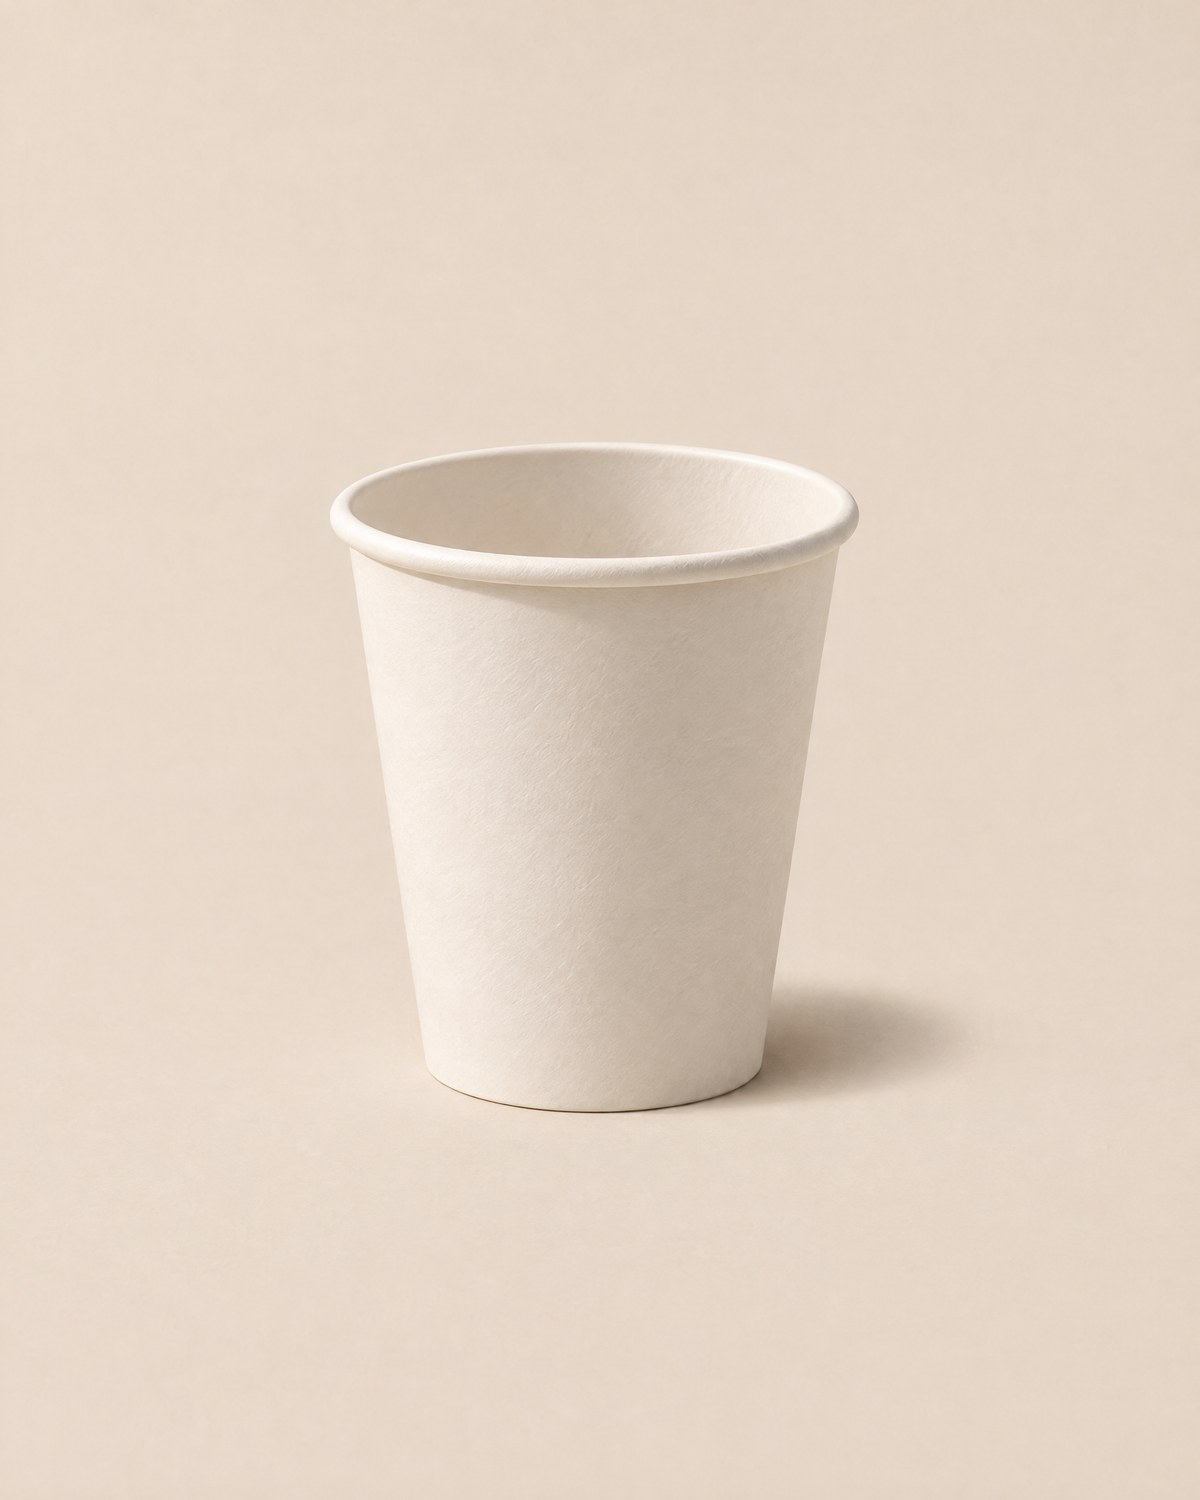
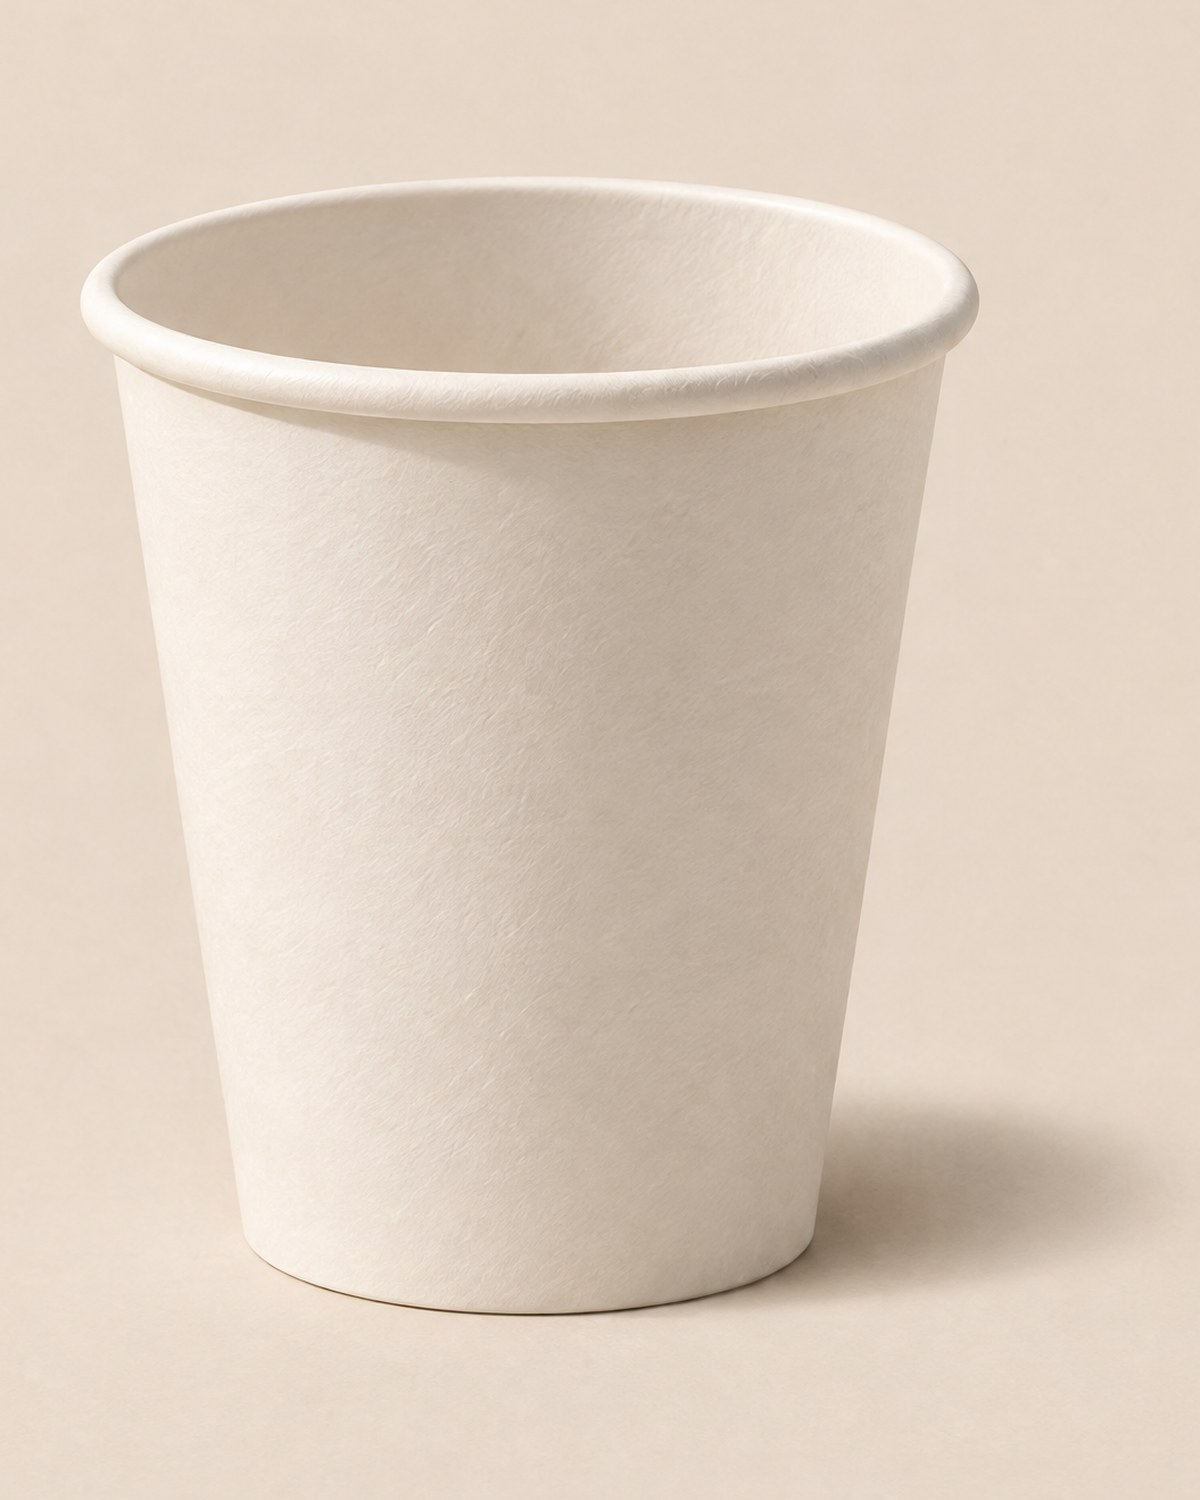
Brand card: tight edge-to-edge product crops, versioned photo URLs (ASSET_VERSION + images.localPatterns)

Changed region(s): [[0.0617, 0.092, 0.9558, 0.8893], [0.185, 0.7667, 0.2775, 0.8587]]

diff --git a/src/app/page.tsx b/src/app/page.tsx
@@ -12,6 +12,7 @@ import { HoverSwap } from "@/components/HoverSwap";
 import { BreakdownScrubber } from "@/components/BreakdownScrubber";
 import { CountUp } from "@/components/CountUp";
 import { SectionRail } from "@/components/SectionRail";
+import { v } from "@/lib/asset-version";
 
 export const metadata = pageMeta({
   title: `${site.name} · Home-compostable coffee cups and lids`,
@@ -73,10 +74,10 @@ export default async function HomePage() {
   ];
 
   const stages = [
-    { label: "served.", text: "A paper cup with a PHA lining. Holds a hot coffee like any other.", src: "/breakdown/1.jpg", alt: "A new paper cup standing on compost" },
-    { label: "torn and buried.", text: "Into the pile with the grounds and the food scraps. Smaller pieces go faster.", src: "/breakdown/2.jpg", alt: "The cup slumped and stained in the pile" },
-    { label: "softening.", text: "Moisture, warmth and the same microbes that made the lining take it apart.", src: "/breakdown/3.jpg", alt: "The cup collapsed to its marked base" },
-    { label: "gone.", text: "Nothing left to pick out. No film, no flakes, no microplastics.", src: "/breakdown/4.jpg", alt: "Dark compost where the cup was" },
+    { label: "served.", text: "A paper cup with a PHA lining. Holds a hot coffee like any other.", src: v("/breakdown/1.jpg"), alt: "A new paper cup standing on compost" },
+    { label: "torn and buried.", text: "Into the pile with the grounds and the food scraps. Smaller pieces go faster.", src: v("/breakdown/2.jpg"), alt: "The cup slumped and stained in the pile" },
+    { label: "softening.", text: "Moisture, warmth and the same microbes that made the lining take it apart.", src: v("/breakdown/3.jpg"), alt: "The cup collapsed to its marked base" },
+    { label: "gone.", text: "Nothing left to pick out. No film, no flakes, no microplastics.", src: v("/breakdown/4.jpg"), alt: "Dark compost where the cup was" },
   ];
 
   const places: [string, string][] = [
@@ -119,7 +120,7 @@ export default async function HomePage() {
           </div>
         </div>
         <div className="relative mt-10 aspect-[16/9] overflow-hidden bg-card md:mt-14">
-          <Image src="/hero-bone.jpg" alt="The three cup sizes and the lid on a bone backdrop, a fourth cup on its side showing the made to disappear mark on its base" fill priority fetchPriority="high" sizes="(min-width: 1120px) 1064px, 100vw" className="object-cover" />
+          <Image src={v("/hero-bone.jpg")} alt="The three cup sizes and the lid on a bone backdrop, a fourth cup on its side showing the made to disappear mark on its base" fill priority fetchPriority="high" sizes="(min-width: 1120px) 1064px, 100vw" className="object-cover" />
         </div>
         <dl className="mt-6 grid border-y border-line text-[14px] sm:grid-cols-3">
           {[
@@ -161,7 +162,7 @@ export default async function HomePage() {
       <Section id="material" intro="Every paper cup has a lining. Ours is PHA, a material microbes make and microbes eat, so the whole cup is certified to break down in a home compost pile.">
         <div className="grid gap-10 md:grid-cols-[1.25fr_1fr] md:items-center md:gap-16">
           <div className="relative aspect-[16/10] overflow-hidden bg-card">
-            <Image src="/soil-mark.jpg" alt="A paper hot cup half-sunk in dark compost, softened and browning, the made to disappear mark still legible on its base" fill sizes="(min-width: 768px) 55vw, 100vw" className="object-cover" />
+            <Image src={v("/soil-mark.jpg")} alt="A paper hot cup half-sunk in dark compost, softened and browning, the made to disappear mark still legible on its base" fill sizes="(min-width: 768px) 55vw, 100vw" className="object-cover" />
           </div>
           <dl className="hairline border-y border-line text-[15px]">
             {[
@@ -226,7 +227,7 @@ export default async function HomePage() {
           </div>
           <figure>
             <div className="relative aspect-[4/3] overflow-hidden bg-card">
-              <Image src="/inner-harbour.jpg" alt="The founders on the Inner Harbour causeway in Victoria, asking passers-by four questions with a cooler of freezies and a hand-drawn sign" fill sizes="(min-width: 768px) 50vw, 100vw" className="object-cover" style={{ filter: "grayscale(1) contrast(1.05)" }} />
+              <Image src={v("/inner-harbour.jpg")} alt="The founders on the Inner Harbour causeway in Victoria, asking passers-by four questions with a cooler of freezies and a hand-drawn sign" fill sizes="(min-width: 768px) 50vw, 100vw" className="object-cover" style={{ filter: "grayscale(1) contrast(1.05)" }} />
             </div>
             <figcaption className="mt-3 text-[13px] text-stone">Inner Harbour, {site.city}. 167 coffee drinkers, summer 2026.</figcaption>
           </figure>

diff --git a/src/app/compost/page.tsx b/src/app/compost/page.tsx
@@ -6,6 +6,7 @@ import { PageHeader } from "@/components/PageHeader";
 import { Reveal, RevealGroup } from "@/components/Reveal";
 import { pageMeta, breadcrumbLd, faqLd, howToLd } from "@/lib/seo";
 import { JsonLd } from "@/components/JsonLd";
+import { v } from "@/lib/asset-version";
 
 export const metadata = pageMeta({
   title: "How to compost a PHA-lined paper cup at home",
@@ -40,7 +41,7 @@ export default function CompostPage() {
         <Reveal>
           <figure>
             <div className="relative aspect-[16/10] overflow-hidden bg-card">
-              <Image src="/soil-mark.jpg" alt="A paper hot cup half-sunk in dark compost, softened and browning, the made to disappear mark still legible on its base" fill priority sizes="(min-width: 768px) 45vw, 100vw" className="object-cover" />
+              <Image src={v("/soil-mark.jpg")} alt="A paper hot cup half-sunk in dark compost, softened and browning, the made to disappear mark still legible on its base" fill priority sizes="(min-width: 768px) 45vw, 100vw" className="object-cover" />
             </div>
             <figcaption className="mt-2 text-xs text-soil/60">An illustration of the breakdown, not a timed photograph. How long it takes depends on the pile.</figcaption>
           </figure>

diff --git a/src/app/certifications/page.tsx b/src/app/certifications/page.tsx
@@ -6,6 +6,7 @@ import { Reveal } from "@/components/Reveal";
 import Image from "next/image";
 import { pageMeta, breadcrumbLd, faqLd } from "@/lib/seo";
 import { JsonLd } from "@/components/JsonLd";
+import { v } from "@/lib/asset-version";
 
 export const metadata = pageMeta({
   title: "Certifications · TÜV Austria home-compostable",
@@ -98,7 +99,7 @@ export default async function CertificationsPage() {
       <div className="mt-10 grid gap-8 md:grid-cols-[1fr_minmax(0,1.2fr)] md:items-start">
       <Reveal>
         <div className="relative aspect-[16/10] overflow-hidden bg-card">
-          <Image src="/soil-mark.jpg" alt="A paper hot cup half-sunk in dark compost, softened and browning, the made to disappear mark still legible on its base" fill sizes="(min-width: 768px) 40vw, 100vw" className="object-cover object-right" />
+          <Image src={v("/soil-mark.jpg")} alt="A paper hot cup half-sunk in dark compost, softened and browning, the made to disappear mark still legible on its base" fill sizes="(min-width: 768px) 40vw, 100vw" className="object-cover object-right" />
         </div>
       </Reveal>
       <Reveal as="section" className="max-w-2xl space-y-3 rounded-[20px] bg-cream p-6 text-sm text-soil/80">

diff --git a/src/app/whats-in-your-cup/page.tsx b/src/app/whats-in-your-cup/page.tsx
@@ -5,6 +5,7 @@ import { PageHeader } from "@/components/PageHeader";
 import { Reveal, RevealGroup } from "@/components/Reveal";
 import { pageMeta, breadcrumbLd, faqLd } from "@/lib/seo";
 import { JsonLd } from "@/components/JsonLd";
+import { v } from "@/lib/asset-version";
 
 export const metadata = pageMeta({
   title: "What's in your cup · paper outside, PHA inside",
@@ -37,7 +38,7 @@ export default function WhatsInYourCupPage() {
       <div className="mx-auto mt-12 grid max-w-6xl gap-10 md:grid-cols-[1fr_1.1fr] md:items-start md:gap-14">
         <Reveal>
           <div className="relative aspect-[4/5] overflow-hidden bg-card">
-            <Image src="/products/MTD-CUP-16H-front.jpg" alt="A 16 oz paper hot cup, one on its side showing the mark on its base" fill priority sizes="(min-width: 768px) 45vw, 100vw" className="object-cover" />
+            <Image src={v("/products/MTD-CUP-16H-front.jpg")} alt="A 16 oz paper hot cup, one on its side showing the mark on its base" fill priority sizes="(min-width: 768px) 45vw, 100vw" className="object-cover" />
           </div>
         </Reveal>
         <div className="space-y-10 text-[16px] leading-7 text-soil/85">

diff --git a/src/app/custom-printing/page.tsx b/src/app/custom-printing/page.tsx
@@ -7,6 +7,7 @@ import { PageHeader } from "@/components/PageHeader";
 import { QuoteForm } from "@/components/QuoteForm";
 import { Reveal, RevealGroup } from "@/components/Reveal";
 import { pageMeta } from "@/lib/seo";
+import { v } from "@/lib/asset-version";
 
 export const metadata = pageMeta({
   title: "Custom printed compostable cups · your logo, from 100 cases",
@@ -28,7 +29,7 @@ export default async function CustomPrintingPage() {
       <div className="mt-10 grid gap-8 md:grid-cols-[1.1fr_1fr] md:items-center md:gap-12">
         <Reveal>
           <div className="relative aspect-[4/5] overflow-hidden bg-card">
-            <Image src="/products/MTD-CUP-16H-front.jpg" alt="A 16 oz hot cup, plain white, ready for printing" fill priority sizes="(min-width: 768px) 50vw, 100vw" className="object-cover" />
+            <Image src={v("/products/MTD-CUP-16H-front.jpg")} alt="A 16 oz hot cup, plain white, ready for printing" fill priority sizes="(min-width: 768px) 50vw, 100vw" className="object-cover" />
           </div>
         </Reveal>
         <div>

diff --git a/src/lib/catalog/assets.ts b/src/lib/catalog/assets.ts
@@ -2,6 +2,7 @@ import "server-only";
 import { existsSync } from "node:fs";
 import path from "node:path";
 import type { Catalog, Product } from "./types";
+import { v } from "@/lib/asset-version";
 
 const PUBLIC = path.join(process.cwd(), "public");
 
@@ -15,7 +16,7 @@ export function drawingFor(sku: string, categoryDrawing: string): string {
 export function photoFor(sku: string, angle = "front"): string | null {
   for (const ext of ["jpg", "jpeg", "png", "webp"]) {
     const f = `${sku}-${angle}.${ext}`;
-    if (existsSync(path.join(PUBLIC, "products", f))) return `/products/${f}`;
+    if (existsSync(path.join(PUBLIC, "products", f))) return v(`/products/${f}`);
   }
   return null;
 }

diff --git a/next.config.ts b/next.config.ts
@@ -1,4 +1,5 @@
 import type { NextConfig } from "next";
+import { ASSET_VERSION } from "./src/lib/asset-version";
 
 const nextConfig: NextConfig = {
   /* config options here */
@@ -7,6 +8,11 @@ const nextConfig: NextConfig = {
   images: {
     // Team portraits are served at 90; everything else stays at the default 75.
     qualities: [75, 90],
+    // Photos carry ?v=<ASSET_VERSION> so replaced files get new URLs; only that exact query (or none) is optimised.
+    localPatterns: [
+      { pathname: "/**", search: "" },
+      { pathname: "/**", search: `?v=${ASSET_VERSION}` },
+    ],
   },
   turbopack: {
     rules: {

diff --git a/src/lib/asset-version.ts b/src/lib/asset-version.ts
@@ -1,0 +1,10 @@
+/**
+ * One version string for every photo URL under /public. Bump it when photos
+ * are replaced: the URLs change, so no browser or CDN keeps serving the old
+ * files. next.config.ts allows exactly this query on local images.
+ */
+export const ASSET_VERSION = "3";
+
+export function v(publicPath: string): string {
+  return `${publicPath}?v=${ASSET_VERSION}`;
+}

diff --git a/CLAUDE.md b/CLAUDE.md
@@ -1,6 +1,6 @@
 # Made to Disappear site
 
-- Brand card (branch brand-card, 2026-11-12/13): docs/brand/brand-card-2026-11-12.md records the design card the user supplied in chat (the PDF was not saved) and asked to be applied to the whole site; it supersedes the colour and type guidance in docs/brand-card.md (routes, data model and claims rules there still apply). Palette: bone #EDE8DF page ground, paper #F6F2EB cards/inputs/image wells, ink #111111 text and primary buttons, soil #2A2420 the one dark band per page (the footer), stone #6B675F secondary text, ash #8B877F disabled/coming-soon/borders only, raw bamboo #C4A672 only as a left rule on notes (`.note`). The old token names in globals.css (`--color-forest`, `--color-cream`, `--color-mint`, `--color-sage`, `--color-clay`…) are kept so every utility still works, each remapped to a card colour; a "Brand card layer" at the end of globals.css overrides components: square corners everywhere except `.btn`/`.chip` (a `[class*="rounded-["]` override), no shadows/gradients/glass/mesh/grain, `.card` paper with a hairline and colour-only hover, outlined chips in lowercase, ink primary button + outlined others (one primary per screen; the header button is outlined), `.btn` and nav lowercase via text-transform, headings always ink, `.price-table`/`.spec-table` hairline rows with an ink rule under the header row, `.max-w-7xl` capped at 1120 px with 28 px gutters, Reveal fades only (200 ms), Marquee static. Type: Helvetica Neue / Arial system stack via `--font-display/--font-serif/--font-sans` (no Google fonts; JetBrains Mono stays for SKUs); .t-hero 72/1/700/-0.04em, .t-section 40, .t-page/.t-heading 26, .t-card 19, .t-lead 20/500, .t-label 11.5 caps stone. Headings are lowercase with a period in the copy itself (acronyms stay); PageHeader titles and most h2s were lowercased on 2026-11-13. Home page: hero (product on bone, headline "serve it. then let it go.", one primary + a text link, a hairline fact list), then numbered sections 01 the range (hairline product grid), 02 paper outside. PHA inside. (soil photo + hairline spec list), 03 after the coffee. (breakdown strip + three hairline columns), 04 what it costs. (CostCalculator, hairline receipt), 05 the Inner Harbour (desaturated photo + hairline stats), 06 asked often.; the footer is the only soil band and carries "keep it. then let it go." Photography (2026-11-13, GPT Image 2.6 via Higgsfield from the renders and the badge, masters in docs/brand/generated/60–65): public/hero-bone.jpg (16:9), `[sku]-front.jpg` the 4:5 pair with the base mark, `[sku]-3q.jpg` single standing cups cropped from one three-cup frame, lid front/3q; all on bone #EDE8DF with one hard light and a real shadow. ProductImage frames are 4:5 object-cover. public/icon.png and apple-icon.png are the card's favicon: an ink dot on bone, low and right.  Interaction layer (2026-11-13, after the user said the photos were off-centre and the site had no features): the product photography was regenerated on 2026-11-13 with the subject dead centre and a short soft shadow (GPT Image 2.6, masters docs/brand/generated/80–87: hero lineup, three front pairs, lid pair, three standing cups; visual mass measured within 5% of centre with the scratchpad measure.py); re-cropping the first set never looked centred because the long hard shadows ran to one edge. soil-mark.jpg is a Higgsfield outpaint of the original (master 72), and public/breakdown/1–4.jpg are 4:5 cuts of the 4k-upscaled strip (master 73). The header is transparent until the page scrolls (ScrollState sets data-scrolled; the brand layer then paints it bone with a hairline). Home page: editorial hero (headline left, lead + buttons right, the lineup full width, three facts on a hairline), section numbers pin while their section scrolls (.section-num), SectionRail is a fixed 01–06 index in the left gutter at ≥1360 px, HoverSwap fades product tiles and cards to the standing `-3q` shot on hover (Product.hover from withAssets), BreakdownScrubber is the four-frame well you drag across or pick a stage from (it steps through once on arrival, then only moves when moved), CountUp counts the survey percentages in. All fades, nothing slides. Harnesses: scratchpad hovershot.mjs (hover + screenshot) and scrollshot.mjs. The older passes live on branches calmer-register and draft-blend; the user's standing rules from them still hold (no "per SKU", flat 16/17/18¢ pricing, Learn library, cost calculator as a sentence + receipt).
+- Brand card (branch brand-card, 2026-11-12/13): docs/brand/brand-card-2026-11-12.md records the design card the user supplied in chat (the PDF was not saved) and asked to be applied to the whole site; it supersedes the colour and type guidance in docs/brand-card.md (routes, data model and claims rules there still apply). Palette: bone #EDE8DF page ground, paper #F6F2EB cards/inputs/image wells, ink #111111 text and primary buttons, soil #2A2420 the one dark band per page (the footer), stone #6B675F secondary text, ash #8B877F disabled/coming-soon/borders only, raw bamboo #C4A672 only as a left rule on notes (`.note`). The old token names in globals.css (`--color-forest`, `--color-cream`, `--color-mint`, `--color-sage`, `--color-clay`…) are kept so every utility still works, each remapped to a card colour; a "Brand card layer" at the end of globals.css overrides components: square corners everywhere except `.btn`/`.chip` (a `[class*="rounded-["]` override), no shadows/gradients/glass/mesh/grain, `.card` paper with a hairline and colour-only hover, outlined chips in lowercase, ink primary button + outlined others (one primary per screen; the header button is outlined), `.btn` and nav lowercase via text-transform, headings always ink, `.price-table`/`.spec-table` hairline rows with an ink rule under the header row, `.max-w-7xl` capped at 1120 px with 28 px gutters, Reveal fades only (200 ms), Marquee static. Type: Helvetica Neue / Arial system stack via `--font-display/--font-serif/--font-sans` (no Google fonts; JetBrains Mono stays for SKUs); .t-hero 72/1/700/-0.04em, .t-section 40, .t-page/.t-heading 26, .t-card 19, .t-lead 20/500, .t-label 11.5 caps stone. Headings are lowercase with a period in the copy itself (acronyms stay); PageHeader titles and most h2s were lowercased on 2026-11-13. Home page: hero (product on bone, headline "serve it. then let it go.", one primary + a text link, a hairline fact list), then numbered sections 01 the range (hairline product grid), 02 paper outside. PHA inside. (soil photo + hairline spec list), 03 after the coffee. (breakdown strip + three hairline columns), 04 what it costs. (CostCalculator, hairline receipt), 05 the Inner Harbour (desaturated photo + hairline stats), 06 asked often.; the footer is the only soil band and carries "keep it. then let it go." Photography (2026-11-13, GPT Image 2.6 via Higgsfield from the renders and the badge, masters in docs/brand/generated/60–65): public/hero-bone.jpg (16:9), `[sku]-front.jpg` the 4:5 pair with the base mark, `[sku]-3q.jpg` single standing cups cropped from one three-cup frame, lid front/3q; all on bone #EDE8DF with one hard light and a real shadow. ProductImage frames are 4:5 object-cover. public/icon.png and apple-icon.png are the card's favicon: an ink dot on bone, low and right.  Interaction layer (2026-11-13, after the user said the photos were off-centre and the site had no features): the product photography was regenerated on 2026-11-13 with the subject dead centre and a short soft shadow (GPT Image 2.6, masters docs/brand/generated/80–87: hero lineup, three front pairs, lid pair, three standing cups; visual mass measured within 5% of centre with the scratchpad measure.py), then cut tight so the cups fill the 4:5 frame and bleed top and bottom (user, 2026-11-13: "like this… not in the middle", after a small centred object with wide margins was rejected); re-cropping the first set never looked right because the long hard shadows ran to one edge. Every photo URL carries ?v=ASSET_VERSION from src/lib/asset-version.ts (next.config.ts images.localPatterns allows exactly that query): bump the constant whenever a photo file is replaced, or browsers keep the old file for hours. soil-mark.jpg is a Higgsfield outpaint of the original (master 72), and public/breakdown/1–4.jpg are 4:5 cuts of the 4k-upscaled strip (master 73). The header is transparent until the page scrolls (ScrollState sets data-scrolled; the brand layer then paints it bone with a hairline). Home page: editorial hero (headline left, lead + buttons right, the lineup full width, three facts on a hairline), section numbers pin while their section scrolls (.section-num), SectionRail is a fixed 01–06 index in the left gutter at ≥1360 px, HoverSwap fades product tiles and cards to the standing `-3q` shot on hover (Product.hover from withAssets), BreakdownScrubber is the four-frame well you drag across or pick a stage from (it steps through once on arrival, then only moves when moved), CountUp counts the survey percentages in. All fades, nothing slides. Harnesses: scratchpad hovershot.mjs (hover + screenshot) and scrollshot.mjs. The older passes live on branches calmer-register and draft-blend; the user's standing rules from them still hold (no "per SKU", flat 16/17/18¢ pricing, Learn library, cost calculator as a sentence + receipt).
 - Do not mention shipping speed (no same-day, cutoffs or dispatch times) and never present the round wordmark badge as a certification mark: it is our logo, not TÜV Austria's.
 - The site never shows its own to-do list: no "pending", "TODO" or placeholder values in copy, chips, tables or the PDF. Missing data (certificate numbers, phone) is omitted, not labelled. Ask the user for it in chat instead.
 - Never use the words biodegradable, marine, ocean, landfill, municipal, green bin, eco or planet-friendly in site copy. `npm run lint:copy` enforces this and runs before every build.
